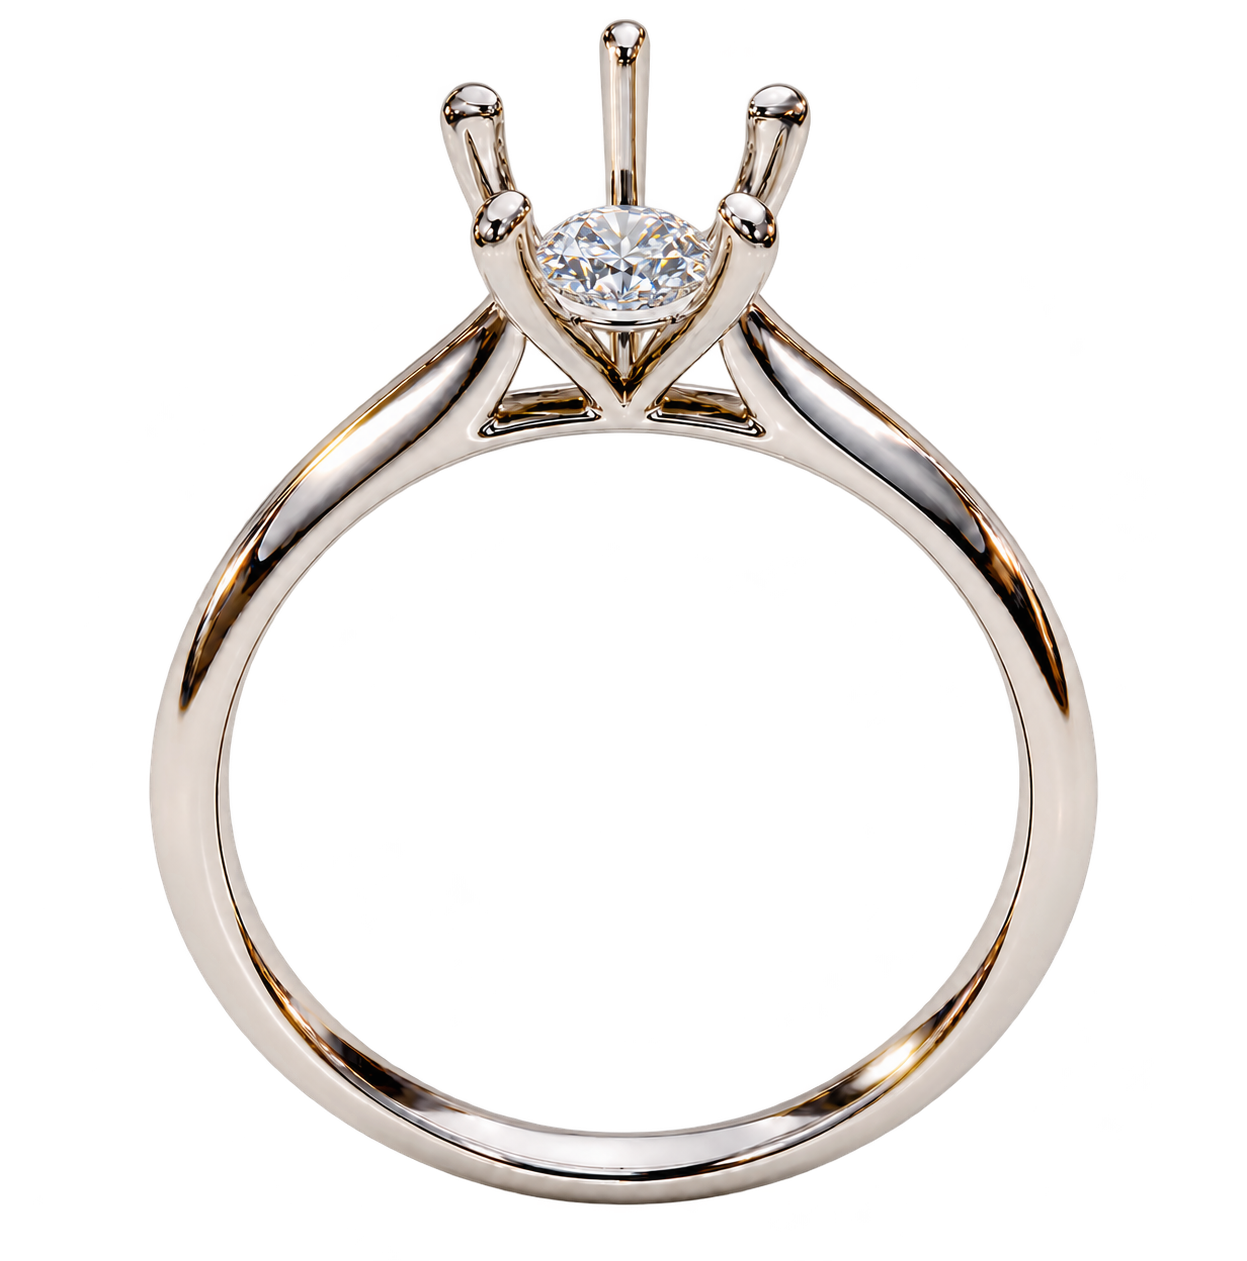
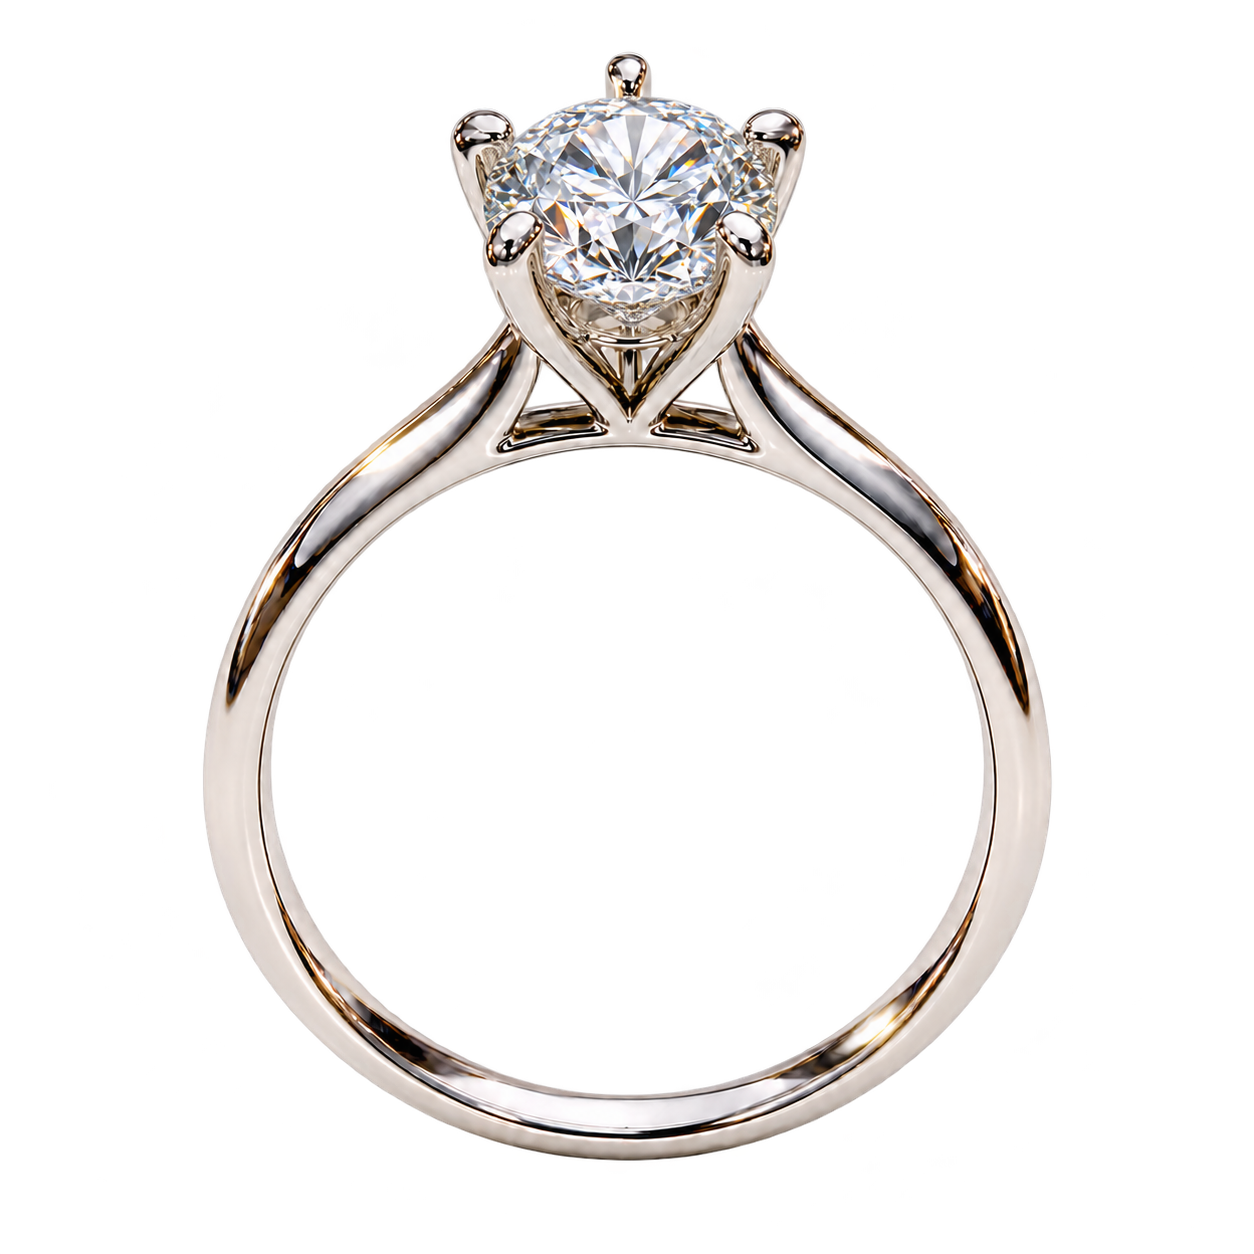
Use large diamond ring as final state

Changed region(s): [[0.1219, 0.0, 0.8837, 0.9641]]

diff --git a/app/page.tsx b/app/page.tsx
@@ -313,8 +313,8 @@ export default function Home() {
                   className="ring-complete"
                   src="/images/diamond-ring-complete.png"
                   alt=""
-                  width="1247"
-                  height="1261"
+                  width="1254"
+                  height="1254"
                   loading="eager"
                   fetchPriority="high"
                 />
